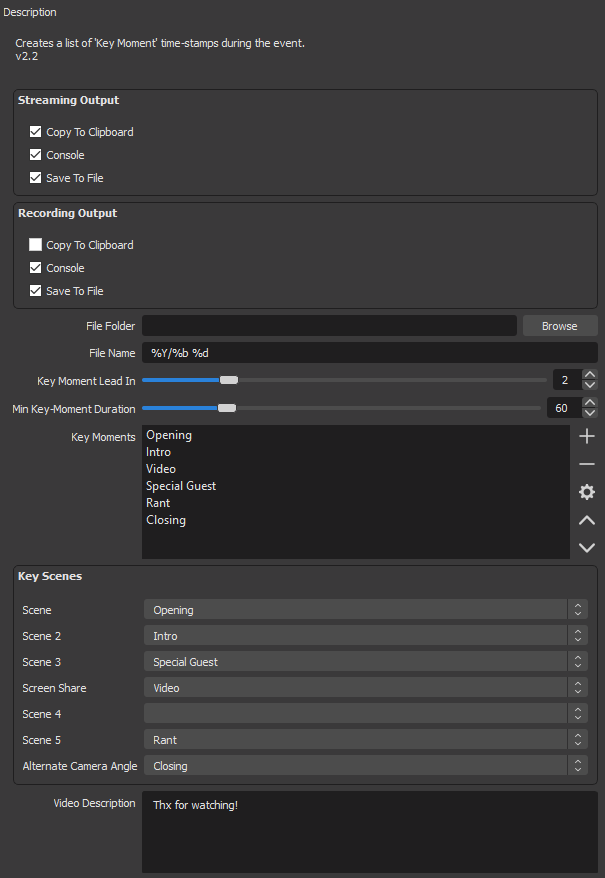
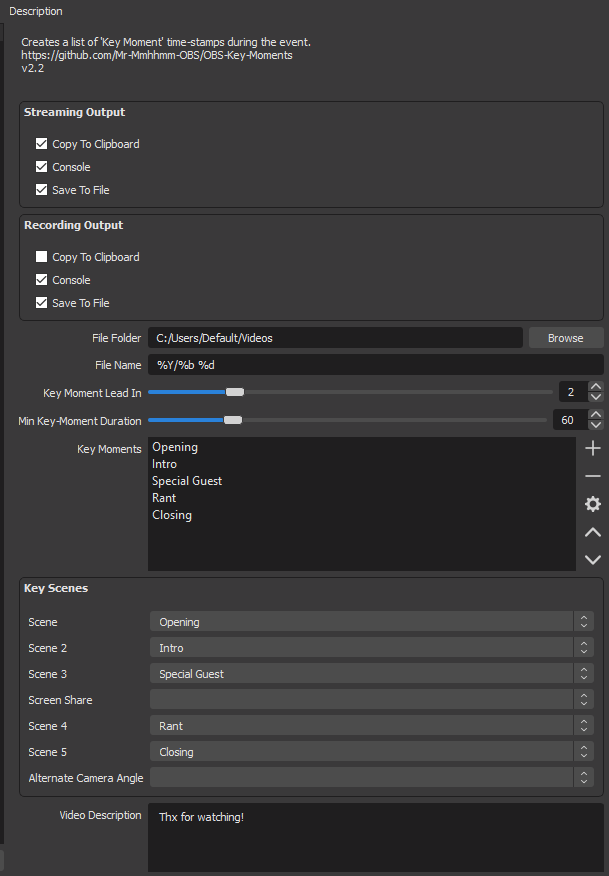
update

Changed region(s): [[0.0, 0.0, 1.0, 1.0], [0.9818, 0.1233, 1.0, 0.2158]]

diff --git a/key-moments.py b/key-moments.py
@@ -6,7 +6,7 @@ import pyperclip as clipboard
 from win10toast import ToastNotifier
 toaster = ToastNotifier()
 
-version=2.2
+version="2.3"
 
 OUTPUT_OPTION_CLIPBOARD = "Copy To Clipboard"
 OUTPUT_OPTION_CONSOLE = "Console"
@@ -25,7 +25,7 @@ key_moment_lead_in = 2
 min_key_moment_duration = 60
 
 description = ""
-key_moment_names = [ "Opening", "Closing" ]
+key_moment_names = [ ]
 key_scenes = { }
 
 def make_toast(message):
@@ -225,7 +225,7 @@ def script_defaults(settings):
 	obs.obs_data_set_default_int(settings, "min_key_moment_duration", min_key_moment_duration)
 
 def script_description():
-	return "Creates a list of 'Key Moment' time-stamps during the event.\nv" + str(version)
+	return "Creates a list of 'Key Moment' time-stamps during the event.\nhttps://github.com/Mr-Mmhhmm-OBS/OBS-Key-Moments\nv" + version
 
 def script_update(settings):
 	global streaming_output
